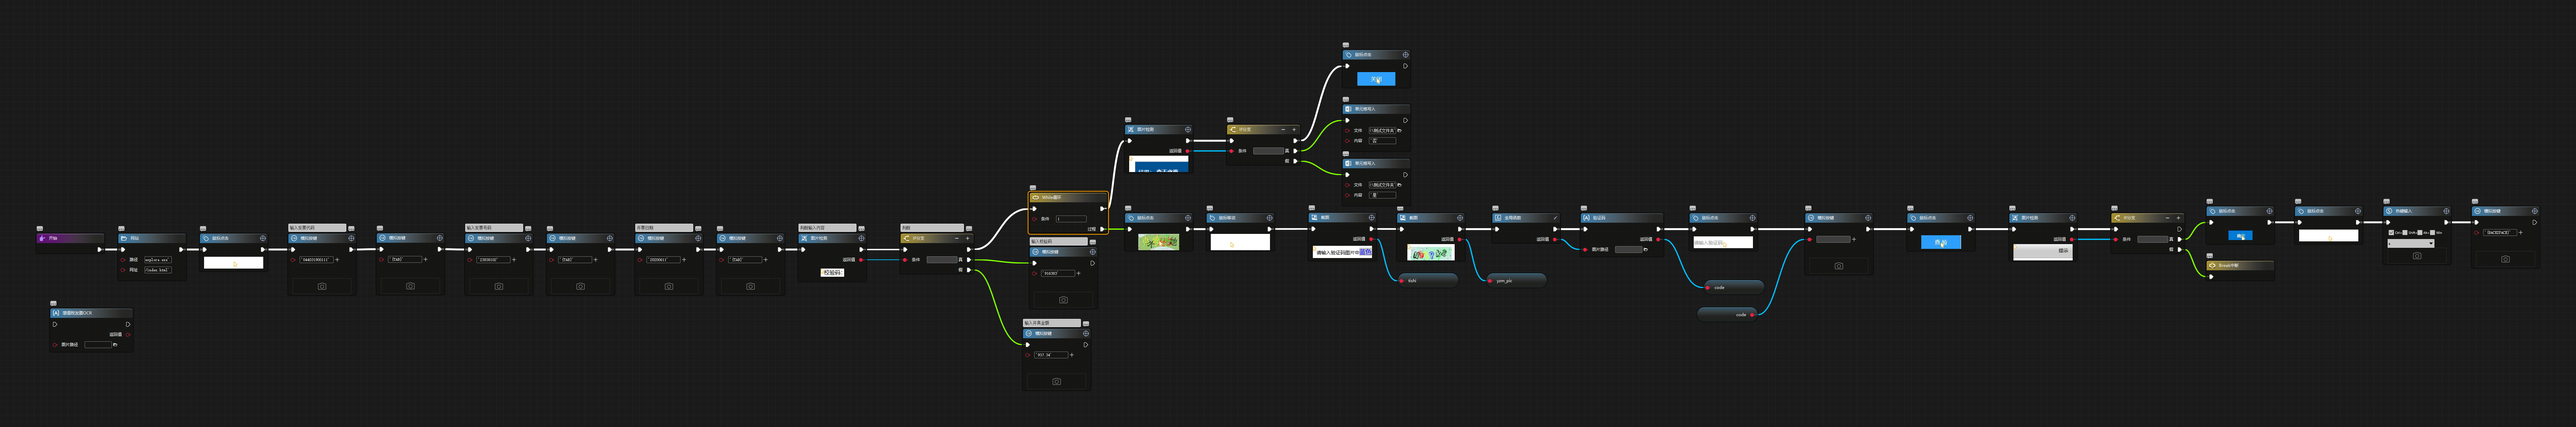
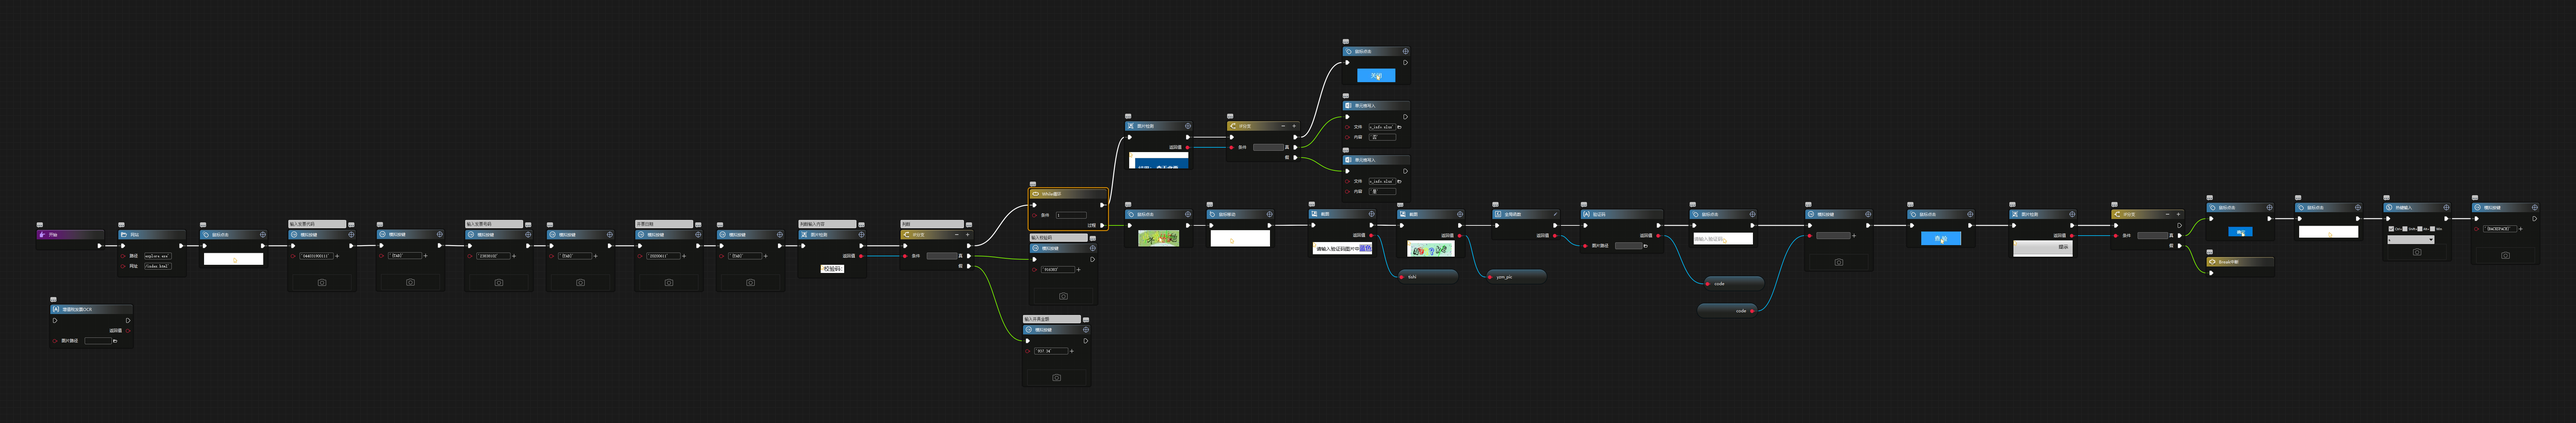
20200623155036

diff --git a/codes/Main.py b/codes/Main.py
@@ -1,5 +1,5 @@
 # coding=utf-8
-# 编译日期：2020-06-23 15:48:44
+# 编译日期：2020-06-23 15:50:36
 # 版权所有：www.i-search.com.cn
 import time
 import pdb
@@ -111,11 +111,11 @@ class lanhe_fapiao:
         if tvar23153820544153:
             #单元格写入
             self.__logger.debug('Flow:flow1,StepNodeTag:23154036169161,Note:')
-            iexcel.write_cell(path='C:\Users\jky\Desktop\蓝禾\测试文件夹',cell='N2',text='否',file_type='excel')
+            iexcel.write_cell(path='C:/Users/jky/Desktop/fapiao_info.xlsx',cell='N2',text='否',file_type='excel')
         else:
             #单元格写入
             self.__logger.debug('Flow:flow1,StepNodeTag:23154300025164,Note:')
-            iexcel.write_cell(path='C:\Users\jky\Desktop\蓝禾\测试文件夹',cell='N2',text='是',file_type='excel')
+            iexcel.write_cell(path='C:/Users/jky/Desktop/fapiao_info.xlsx',cell='N2',text='是',file_type='excel')
         # 鼠标点击
         self.__logger.debug('Flow:flow1,StepNodeTag:23154506960166,Note:')
         iie.do_click_pos(win_title=r'国家税务总局全国增值税发票查验平台 - Internet Explorer',url=r'https://inv-veri.chinatax.gov.cn/index.html',selector=r'#closebt',button=r'left',curson=r'center',times=1,run_mode=r'unctrl',continue_on_error=r'break',waitfor=10)

diff --git a/codes/Main_d.py b/codes/Main_d.py
@@ -1,5 +1,5 @@
 # coding=utf-8
-# 编译日期：2020-06-23 15:48:44
+# 编译日期：2020-06-23 15:50:36
 # 版权所有：www.i-search.com.cn
 import time
 import pdb
@@ -111,11 +111,11 @@ class lanhe_fapiao:
         if tvar23153820544153:
             #单元格写入
             self.__logger.debug('Flow:flow1,StepNodeTag:23154036169161,Note:')
-            iexcel.write_cell(path='C:\Users\jky\Desktop\蓝禾\测试文件夹',cell='N2',text='否',file_type='excel')
+            iexcel.write_cell(path='C:/Users/jky/Desktop/fapiao_info.xlsx',cell='N2',text='否',file_type='excel')
         else:
             #单元格写入
             self.__logger.debug('Flow:flow1,StepNodeTag:23154300025164,Note:')
-            iexcel.write_cell(path='C:\Users\jky\Desktop\蓝禾\测试文件夹',cell='N2',text='是',file_type='excel')
+            iexcel.write_cell(path='C:/Users/jky/Desktop/fapiao_info.xlsx',cell='N2',text='是',file_type='excel')
         # 鼠标点击
         self.__logger.debug('Flow:flow1,StepNodeTag:23154506960166,Note:')
         iie.do_click_pos(win_title=r'国家税务总局全国增值税发票查验平台 - Internet Explorer',url=r'https://inv-veri.chinatax.gov.cn/index.html',selector=r'#closebt',button=r'left',curson=r'center',times=1,run_mode=r'unctrl',continue_on_error=r'break',waitfor=10)
